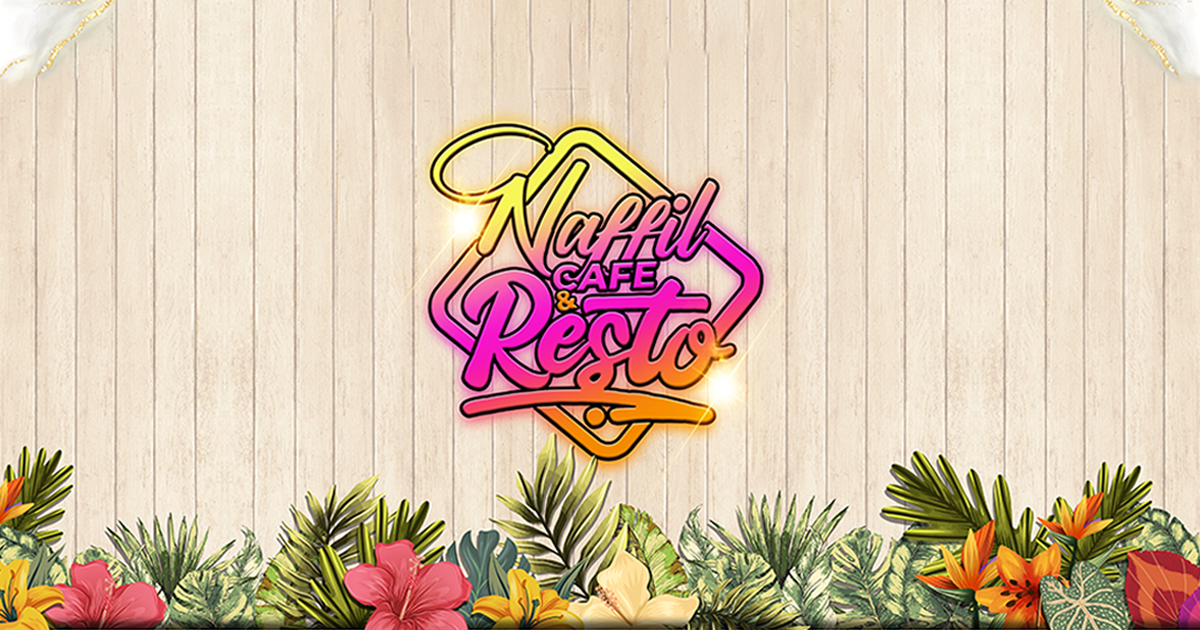
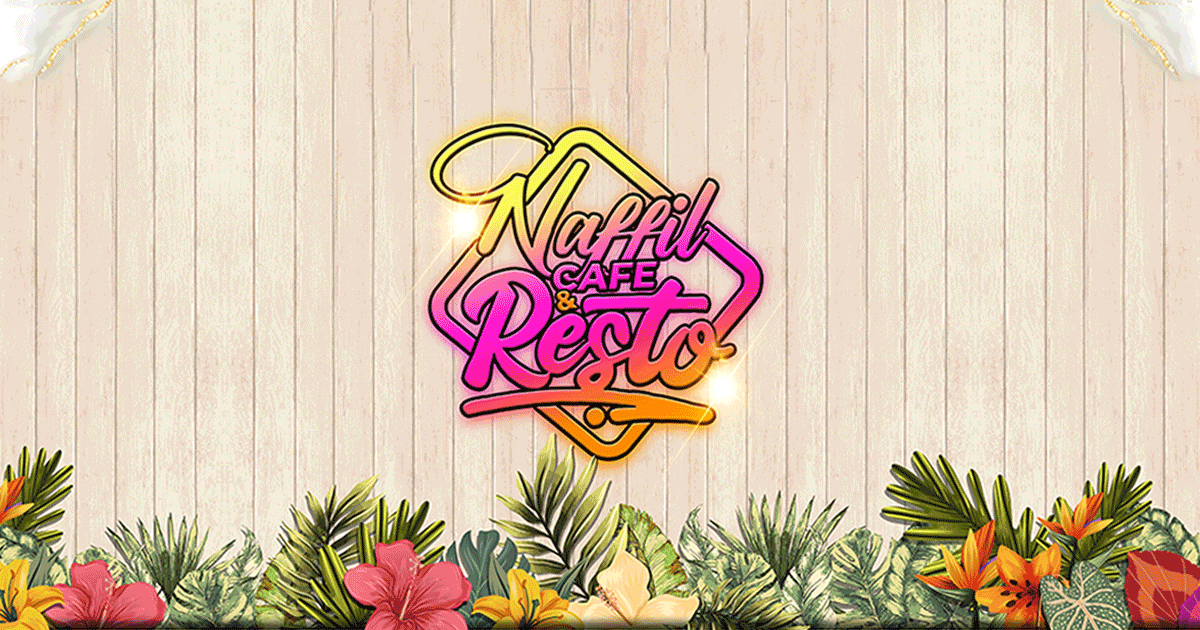
add og image square

diff --git a/app/layout.tsx b/app/layout.tsx
@@ -7,7 +7,7 @@ export const metadata: Metadata = {
   openGraph: {
     title: "Daftar Menu Naffil - Cafe & Resto",
     description: "Daftar Menu Naffil - Cafe & Resto | Depan Kampus 4 UNG | Moutong, Kec. Tilongkabila, Kabupaten Bone Bolango, Gorontalo",
-    images: "./opengraph-image.png",
+    images: ["./opengraph-image.png", './opengraph-image-square.png'],
   }
 };
 
